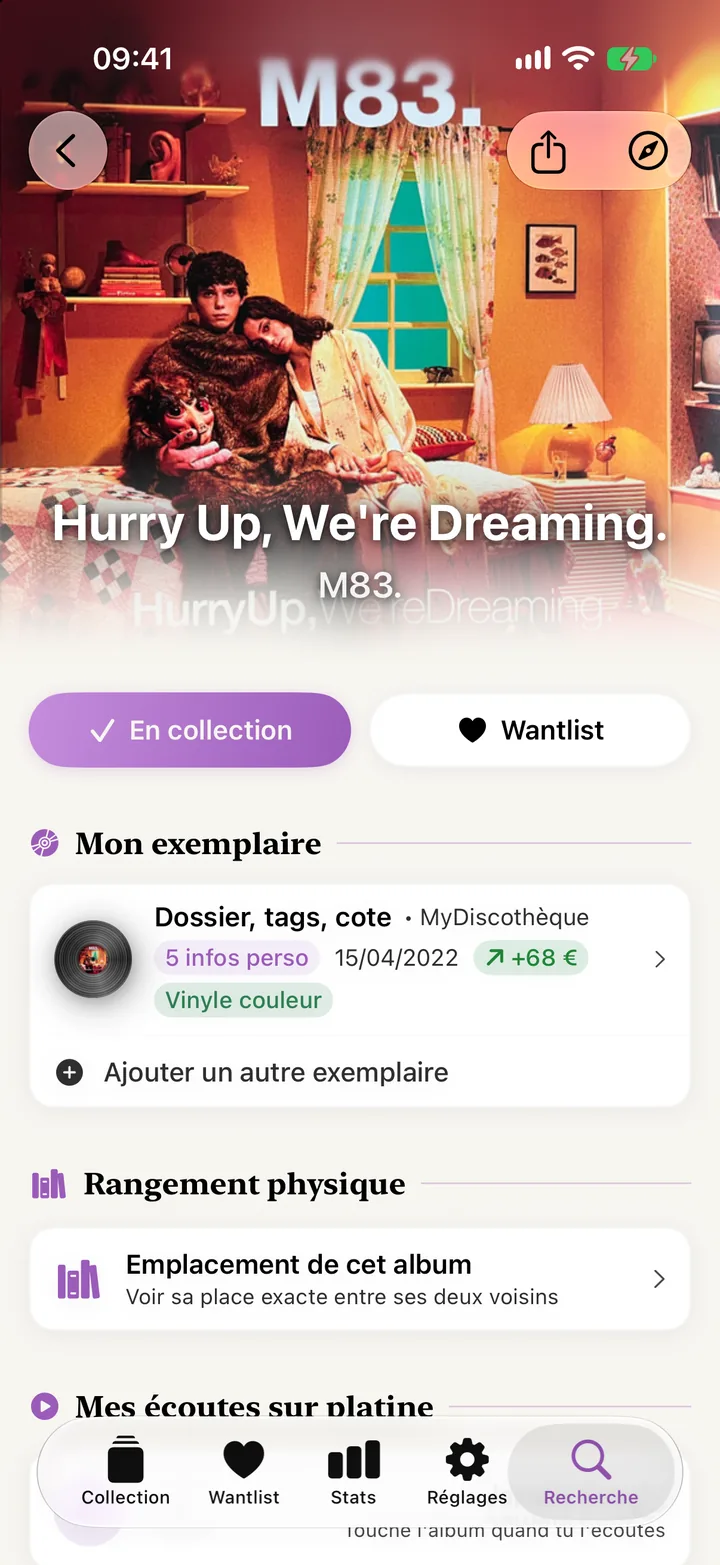
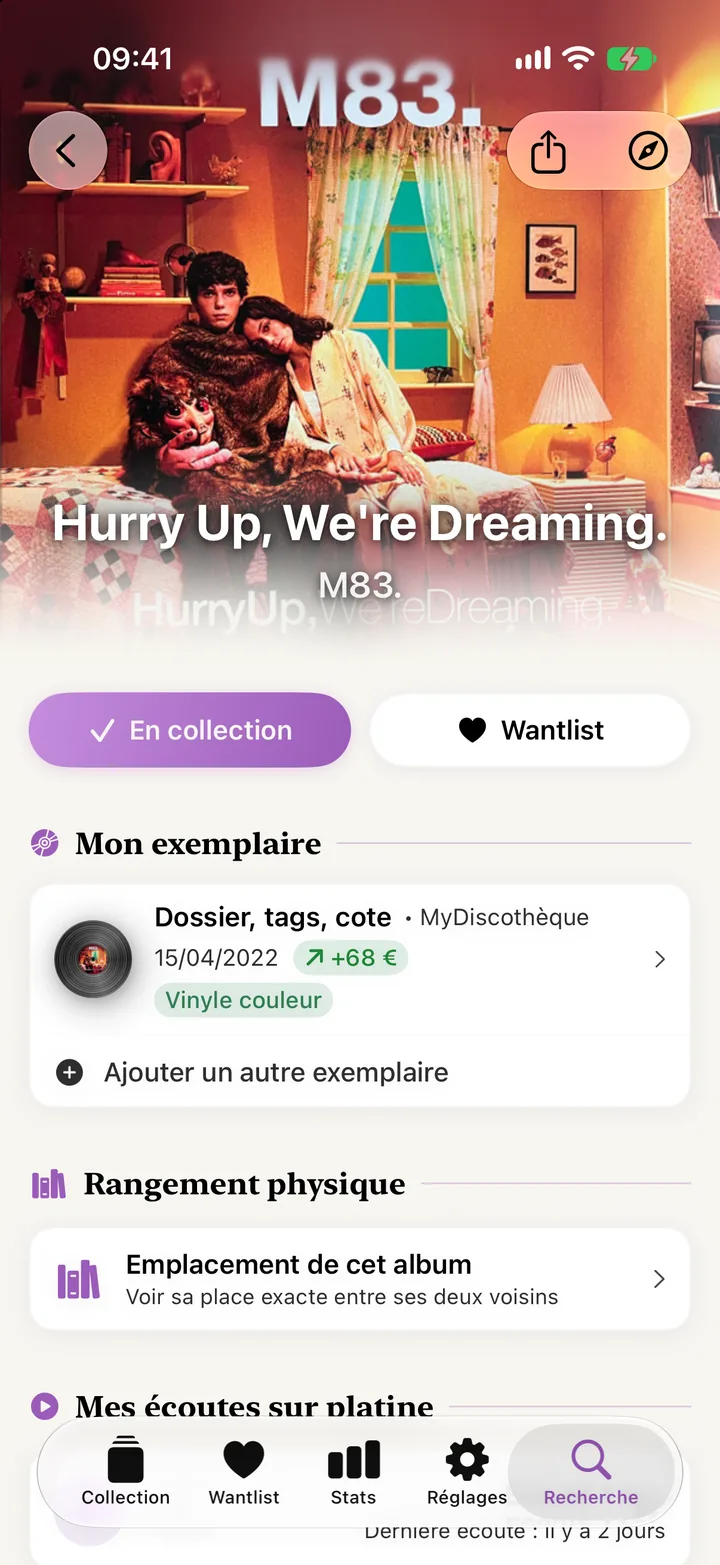
Site : fiche perso de l'exemplaire, section Gratuit en huit cartes, page revue

diff --git a/docs/index.html b/docs/index.html
@@ -166,11 +166,14 @@
     .media-trio figcaption small { display: block; font-family: var(--sans); font-weight: 400; font-size: .92rem; color: var(--ink-2); margin-top: 2px; }
     @media (max-width: 860px) { .media-trio { grid-template-columns: 1fr; max-width: 420px; margin-inline: auto; } }
 
-    /* « Et aussi » : cinq cartes, trois sur la première ligne puis deux plus larges */
-    .more .grid { grid-template-columns: repeat(6, 1fr); }
-    .more .grid .card { grid-column: span 2; }
-    .more .grid .card:nth-child(n+4) { grid-column: span 3; }
-    @media (max-width: 900px) { .more .grid { grid-template-columns: repeat(2, 1fr); } .more .grid .card, .more .grid .card:nth-child(n+4) { grid-column: auto; } .more .grid .card:last-child { grid-column: 1 / -1; } }
+    /* Gratuit : huit cartes, deux lignes de trois puis deux cartes plus larges */
+    #gratuit .grid { grid-template-columns: repeat(6, 1fr); }
+    #gratuit .grid .card { grid-column: span 2; }
+    #gratuit .grid .card:nth-child(n+7) { grid-column: span 3; }
+    @media (max-width: 900px) { #gratuit .grid { grid-template-columns: repeat(2, 1fr); } #gratuit .grid .card, #gratuit .grid .card:nth-child(n+7) { grid-column: auto; } }
+    @media (max-width: 560px) { #gratuit .grid { grid-template-columns: 1fr; } }
+    /* « Et aussi » : quatre cartes, deux par ligne */
+    .more .grid { grid-template-columns: repeat(2, 1fr); }
     @media (max-width: 560px) { .more .grid { grid-template-columns: 1fr; } }
     /* Scan : deux téléphones côte à côte, chacun avec sa légende */
     .scan-duo { display: flex; gap: 28px; justify-content: center; align-items: flex-start; }
@@ -398,7 +401,7 @@
         <li>Le bac : tes disques rangés comme chez le disquaire, tu glisses pour faire basculer celui de devant et découvrir le suivant</li>
         <li>Jusqu'à dix tris, dans les deux sens, et une barre pour sauter à une lettre ou à une année</li>
         <li>Recherche, filtres par dossier, tag ou support, qui se cumulent</li>
-        <li>Plusieurs exemplaires d'un même album, avec tes tags, tes notes personnelles et tes champs personnalisés</li>
+        <li>Plusieurs exemplaires d'un même album, chacun avec son dossier et ses champs Discogs</li>
         <li>Un bouton « Album au hasard » pour ne plus jamais hésiter</li>
       </ul>
     </div>
@@ -418,7 +421,7 @@
 <section class="block on-violet g-rose" id="ecoute">
   <div class="wrap split rev">
     <div class="text reveal">
-      <span class="eyebrow">Fiche &amp; écoute</span>
+      <span class="eyebrow">Fiche de l'album</span>
       <h2>Chaque album a sa fiche.</h2>
       <p>Toutes les informations de l'édition viennent de Discogs : titres, crédits, label, pays, année, format et infos de pressage, avec les photos et les vidéos. En haut de la fiche, un résumé de ton exemplaire.</p>
       <ul class="ticks">
@@ -549,10 +552,9 @@
       <div class="card reveal"><span class="eyebrow">Discogs</span><h3>Collection et wantlist</h3><p>Ajouts illimités. Les ajouts, retraits et notes sont répercutés sur ton compte Discogs.</p></div>
       <div class="card reveal"><span class="eyebrow">Scan</span><h3>Scanner un code-barres</h3><p>Identifie un album par son code-barres et ajoute-le à ta collection ou à ta wantlist.</p></div>
       <div class="card reveal"><span class="eyebrow">Affichage</span><h3>Liste, mosaïque, carrousel, bac</h3><p>Quatre affichages, dix tris, filtres et barre de navigation alphabétique.</p></div>
-      <div class="card reveal"><span class="eyebrow">Classement</span><h3>Notes et dossiers</h3><p>Classe à ta façon, avec une note sur 5 et tes dossiers Discogs. Tes tags restent visibles et filtrables.</p></div>
-      <div class="card reveal"><span class="eyebrow">Valeur</span><h3>Prix d'achat, état et cote</h3><p>Note ce que tu as payé et l'état de chaque disque, sans rien configurer sur Discogs, puis compare avec la cote album par album.</p></div>
-      <div class="card reveal"><span class="eyebrow">Statistiques</span><h3>Ta collection en chiffres</h3><p>Compteurs, derniers ajouts, graphiques par genre, support, label et année, et estimation de la valeur.</p></div>
-      <div class="card reveal"><span class="eyebrow">Platine</span><h3>Écoutes et Live Activity</h3><p>Note chaque écoute, retrouve ton album en cours sur l'écran verrouillé.</p></div>
+      <div class="card reveal"><span class="eyebrow">Classement</span><h3>Notes et dossiers</h3><p>Classe à ta façon, avec une note sur 5 étoiles et tes dossiers Discogs.</p></div>
+      <div class="card reveal"><span class="eyebrow">Valeur</span><h3>Prix d'achat, état et cote</h3><p>Note ce que tu as payé et l'état de chaque disque, et retrouve sa cote Discogs. Le calcul de la plus-value est Premium.</p></div>
+      <div class="card reveal"><span class="eyebrow">Platine</span><h3>Écoutes et Live Activity</h3><p>Enregistre chaque écoute et retrouve ton album en cours sur l'écran verrouillé.</p></div>
       <div class="card reveal"><span class="eyebrow">Apple Music</span><h3>Lecture depuis la fiche</h3><p>Titres en entier avec un abonnement actif, extrait de 30 secondes sinon.</p></div>
       <div class="card reveal"><span class="eyebrow">Apparence</span><h3>Clair, sombre, Signature</h3><p>Thème clair ou sombre, et la palette Signature, aux couleurs de l'app.</p></div>
     </div>
@@ -564,7 +566,7 @@
     <div class="head reveal">
       <span class="pill">✦ Premium</span>
       <h2 style="margin-top:18px">Pour aller beaucoup plus loin.</h2>
-      <p class="lead">Suivi de la valeur, rangement, alertes de prix, hors ligne, iCloud&nbsp;: le Premium transforme Spinfolio en vrai outil de collectionneur.</p>
+      <p class="lead">Suivi de la valeur, informations spécifiques à ton album, rangement, alertes de prix, hors ligne, iCloud&nbsp;: le Premium transforme Spinfolio en vrai outil de collectionneur.</p>
     </div>
 
     <div class="steps">
@@ -572,13 +574,19 @@
         <article class="step" data-shot="cote">
           <span class="eyebrow">Suivi de cote</span>
           <h3>Suis la valeur de tes albums.</h3>
-          <p>Renseigne le prix payé et l'état de chaque exemplaire, directement dans l'app, sans champ Discogs à configurer, puis compare-le à la cote Discogs : tu vois la plus-value de chaque album. Tes valeurs déjà saisies sur Discogs s'importent en un geste.</p>
+          <p>Renseigne le prix payé et l'état de chaque exemplaire, directement dans l'app, puis compare-le à la cote Discogs : tu vois la plus-value de chaque album. Tes valeurs déjà saisies sur Discogs s'importent en un geste.</p>
           <div class="inline-shot"><div class="phone single"><div class="screen"><img src="assets/cote.webp" alt="Exemplaire d'un album : dossier, prix d'achat, état, cote actuelle, plus-value et tags" width="720" height="1565" loading="lazy"></div></div></div>
+        </article>
+        <article class="step" data-shot="histoire">
+          <span class="eyebrow">Histoire de l'exemplaire</span>
+          <h3>Chaque exemplaire a son histoire.</h3>
+          <p>Renseigne ce qui rend ton exemplaire unique : provenance et lieu d'achat, dédicace, numéro de tirage, prêts, dernier nettoyage, notes personnelles et jusqu'à trois photos. Classe aussi tes albums avec des tags personnalisés. Tout reste privé, dans l'app et ton iCloud ; sans abonnement, tout reste visible en lecture seule.</p>
+          <div class="inline-shot"><div class="phone single"><div class="screen"><img src="assets/exemplaire.webp" alt="Mon exemplaire : histoire de l'exemplaire (provenance, lieu, date d'achat, dédicace, numéro de tirage), suivi (prêt, dernier nettoyage, à remplacer) et photos" width="720" height="1565" loading="lazy"></div></div></div>
         </article>
         <article class="step" data-shot="valeur">
           <span class="eyebrow">Valeur de la collection</span>
           <h3>Ce que vaut ta collection, et ce qu'elle t'a coûté.</h3>
-          <p>« Estimation de la collection » s'appuie sur l'historique réel des ventes Discogs. « Investi vs cote actuelle » met face à face le total de ce que tu as payé et la cote de tes albums : ta plus-value latente, en euros et en pourcentage.</p>
+          <p>« Investi vs cote actuelle » met face à face le total de ce que tu as payé et la cote de tes albums : ta plus-value latente, en euros et en pourcentage. Juste au-dessus, l'estimation de la collection, gratuite, s'appuie sur l'historique réel des ventes Discogs.</p>
           <div class="inline-shot"><div class="phone single"><div class="screen"><img src="assets/cote-collection.webp" alt="Statistiques : estimation de la collection (minimum, médiane, maximum) et « Investi vs cote actuelle » avec le total investi, la cote actuelle et la plus-value latente" width="720" height="1565" loading="lazy"></div></div></div>
         </article>
         <article class="step" data-shot="rangement">
@@ -586,12 +594,6 @@
           <h3>Retrouve la place exacte de chaque album.</h3>
           <p>Le guide te donne la position de l'album dans ton meuble, entre ses deux voisins, selon ta méthode de classement. Il s'ouvre aussi juste après l'ajout d'un album.</p>
           <div class="inline-shot"><div class="phone single"><div class="screen"><img src="assets/rangement.webp" alt="Guide de rangement : position dans le meuble entre les deux albums voisins" width="720" height="1565" loading="lazy"></div></div></div>
-        </article>
-        <article class="step" data-shot="scan">
-          <span class="eyebrow">Scan par lot</span>
-          <h3>Scanne toute ta pile, ajoute-la d'un coup.</h3>
-          <p>Enchaîne les codes-barres chez le disquaire ou en brocante, relis la revue, puis envoie le lot en collection ou en wantlist.</p>
-          <div class="inline-shot"><div class="phone single"><div class="screen"><img src="assets/scan.webp" alt="Revue du scan par lot : quatre albums scannés, choix du dossier et boutons Collection et Wantlist" width="720" height="1565" loading="lazy"></div></div></div>
         </article>
         <article class="step" data-shot="palmares">
           <span class="eyebrow">Palmarès d'écoute</span>
@@ -610,9 +612,9 @@
         <div class="phone" id="premium-phone">
           <div class="screen">
             <img class="on" data-id="cote" src="assets/cote.webp" alt="" width="720" height="1565" loading="lazy">
+            <img data-id="histoire" src="assets/exemplaire.webp" alt="" width="720" height="1565" loading="lazy">
             <img data-id="valeur" src="assets/cote-collection.webp" alt="" width="720" height="1565" loading="lazy">
             <img data-id="rangement" src="assets/rangement.webp" alt="" width="720" height="1565" loading="lazy">
-            <img data-id="scan" src="assets/scan.webp" alt="" width="720" height="1565" loading="lazy">
             <img data-id="palmares" src="assets/palmares.webp" alt="" width="720" height="1565" loading="lazy">
             <img data-id="wantlist" src="assets/alerte.webp" alt="" width="720" height="1565" loading="lazy">
           </div>
@@ -624,11 +626,9 @@
       <h3 class="reveal">Et aussi, pour les collectionneurs exigeants.</h3>
       <div class="grid">
         <div class="card reveal"><span class="eyebrow">Mode hors ligne</span><h3>Toute ta collection, sans réseau</h3><p>Emporte ta collection et ses pochettes haute résolution pour fouiner en brocante. La synchro automatique ne se lance jamais en 4G/5G.</p></div>
-        <div class="card reveal"><span class="eyebrow">Tags et notes personnelles</span><h3>Gère tes tags et tes notes sans limite</h3><p>Création, affectation, renommage et gestion en masse de tags. Ajoute une note personnelle à chaque exemplaire. Sans abonnement, tes tags et notes restent visibles en lecture seule.</p></div>
-        <div class="card reveal"><span class="eyebrow">Synchro iCloud</span><h3>Sur tous tes appareils</h3><p>Tes tags, notes personnelles, écoutes, alertes, prix d'achat, états de disque et préférences suivent ton compte. Couper la synchro n'efface rien.</p></div>
+        <div class="card reveal"><span class="eyebrow">Synchro iCloud</span><h3>Sur tous tes appareils</h3><p>Tes tags, notes, histoires et photos d'exemplaires, écoutes, alertes, prix d'achat, états de disque et préférences suivent ton compte. Couper la synchro n'efface rien.</p></div>
         <div class="card reveal"><span class="eyebrow">Export CSV</span><h3>Ta discothèque dans un tableur</h3><p>Excel, Numbers ou Sheets : tous tes albums avec métadonnées, tags et notes personnelles.</p></div>
         <div class="card reveal"><span class="eyebrow">Déclaration de collection</span><h3>Un PDF pour ton assureur</h3><p>La liste de tes albums avec pochette, état et prix d'achat, à présenter comme justificatif.</p></div>
-        <div class="card reveal"><span class="eyebrow">Thèmes de couleur</span><h3>Neuf palettes exclusives</h3><p>Donne à ton app l'ambiance qui te ressemble, du bleu électrique au marron espresso.</p></div>
       </div>
     </div>
   </div>
@@ -681,16 +681,16 @@
           <tr><th scope="row">Thème clair ou sombre, palette Signature</th><td class="yes">✓</td><td class="yes">✓</td></tr>
           <tr class="sep"><td colspan="3">Réservé au Premium</td></tr>
           <tr><th scope="row">Suivi de cote<small>Plus-value par exemplaire et pour toute la collection</small></th><td class="no">—</td><td class="yes gold">✓</td></tr>
-          <tr><th scope="row">Tags et notes personnelles<small>Création, affectation, renommage, gestion en masse de tags, notes par exemplaire.</small></th><td class="no">—</td><td class="yes gold">✓</td></tr>
+          <tr><th scope="row">Histoire de l'exemplaire, tags et notes<small>Provenance, dédicace, numéro de tirage, prêts, nettoyage, photos, notes personnelles et tags</small></th><td class="no">—</td><td class="yes gold">✓</td></tr>
           <tr><th scope="row">Où ranger l'album<small>Position dans le meuble, entre ses deux voisins</small></th><td class="no">—</td><td class="yes gold">✓</td></tr>
+          <tr><th scope="row">Scan par lot</th><td class="no">—</td><td class="yes gold">✓</td></tr>
           <tr><th scope="row">Palmarès et podiums d'écoute sur platine</th><td class="no">—</td><td class="yes gold">✓</td></tr>
           <tr><th scope="row">Alertes de prix sur la wantlist</th><td class="no">—</td><td class="yes gold">✓</td></tr>
           <tr><th scope="row">Mode hors ligne</th><td class="no">—</td><td class="yes gold">✓</td></tr>
           <tr><th scope="row">Synchronisation iCloud</th><td class="no">—</td><td class="yes gold">✓</td></tr>
-          <tr><th scope="row">Scan par lot</th><td class="no">—</td><td class="yes gold">✓</td></tr>
-          <tr><th scope="row">Neuf palettes de couleurs</th><td class="no">—</td><td class="yes gold">✓</td></tr>
           <tr><th scope="row">Export CSV complet</th><td class="no">—</td><td class="yes gold">✓</td></tr>
           <tr><th scope="row">Déclaration de collection (PDF)</th><td class="no">—</td><td class="yes gold">✓</td></tr>
+          <tr><th scope="row">Neuf palettes de couleurs</th><td class="no">—</td><td class="yes gold">✓</td></tr>
         </tbody>
       </table>
     </div>
@@ -715,7 +715,7 @@
       <details><summary>Se connecter à Discogs</summary><div class="body">
         <p>Ta collection vit sur Discogs : Spinfolio en est une belle vitrine.</p>
         <ol><li>Autorise l'app sur le site Discogs, puis reviens dans Spinfolio.</li><li>Ta collection et ta wantlist se chargent.</li></ol>
-        <p class="tip"><strong>Astuce.</strong> Les ajouts, les retraits et les notes sont répercutés sur ton compte Discogs. Les tags et les notes personnelles, eux, restent propres à Spinfolio.</p>
+        <p class="tip"><strong>Astuce.</strong> Les ajouts, les retraits et les notes sont répercutés sur ton compte Discogs. Les tags, eux, restent propres à Spinfolio.</p>
       </div></details>
       <details><summary>Ajouter un album<span class="badge acc">Compte Discogs</span></summary><div class="body">
         <p>Cherche par nom ou scanne le code-barres.</p>
@@ -735,7 +735,7 @@
     <div class="manual-group reveal"><h3>Collection et Wantlist</h3>
       <details><summary>Quatre affichages</summary><div class="body">
         <p>Liste, mosaïque, carrousel ou bac : choisis ce qui te parle.</p>
-        <ol><li>Touche « ··· » en haut à droite, puis « Affichage » : ton choix est retenu, séparément pour la Collection et la Wantlist.</li><li>Dans le bac, glisse vers le bas pour faire basculer le disque de devant et découvrir le suivant, vers le haut pour revenir en arrière.</li></ol>
+        <ol><li>Touche « ··· » en haut à droite, puis « Affichage » : ton choix est retenu, séparément pour la Collection et la Wantlist.</li><li>Dans le bac, glisse vers le bas pour faire basculer l'album de devant et découvrir le suivant, vers le haut pour revenir en arrière.</li></ol>
         <p class="tip"><strong>Astuce.</strong> Le bouton « Album au hasard », en haut de la Collection, t'en propose un.</p>
       </div></details>
       <details><summary>Trier et naviguer</summary><div class="body">
@@ -744,8 +744,8 @@
         <p class="tip"><strong>Astuce.</strong> Le tri « Meuble » suit ta règle de rangement (Réglages &gt; Rangement).</p>
       </div></details>
       <details><summary>Chercher et filtrer</summary><div class="body">
-        <p>Par texte, dossier, tag ou support. Les filtres se cumulent.</p>
-        <ol><li>Tape dans la barre de recherche, ou touche « ··· » puis « Filtres » pour le tag et le support.</li><li>Le menu « Dossier », dans « ··· », change de dossier.</li></ol>
+        <p>Cherche dans l'onglet Recherche, filtre ta collection par dossier, tag, support ou exemplaire.</p>
+        <ol><li>Onglet Recherche : tes albums de la collection, puis de la wantlist, apparaissent en tête des résultats.</li><li>Dans la Collection, touche le nom du dossier sous le titre pour en changer, ou « ··· » puis « Filtres » pour le tag, le support et « Mon exemplaire ».</li></ol>
         <p class="tip"><strong>Astuce.</strong> Avec plusieurs tags, seuls les albums qui les portent tous restent affichés.</p>
       </div></details>
       <details><summary>Agir sur un album</summary><div class="body">
@@ -755,27 +755,33 @@
       </div></details>
     </div>
     <div class="manual-group reveal"><h3>Fiche d'un album</h3>
-      <details><summary>Lire une fiche</summary><div class="body">
-        <p>Titres, crédits, photos, vidéos et infos de pressage, au même endroit.</p>
-        <ol><li>Touche un album pour ouvrir sa fiche.</li><li>Fais défiler : titres, « Photos et vidéos », « Autres informations ».</li></ol>
-      </div></details>
-      <details><summary>Plusieurs exemplaires<span class="badge acc">Compte Discogs</span></summary><div class="body">
-        <p>Un même album peut exister en plusieurs exemplaires, chacun avec son dossier.</p>
-        <ol><li>Maintiens « En collection » pour ajouter un exemplaire.</li><li>Touche « Modifier » sur un exemplaire : dossier, tags, champs Discogs.</li></ol>
-      </div></details>
-      <details><summary>Tags et notes personnelles<span class="badge">Premium</span></summary><div class="body">
-        <p>Classe tes albums avec tes propres tags, et garde une note personnelle sur chaque exemplaire.</p>
-        <ol><li>Dans « Modifier », section « Tags de l'exemplaire » : crée ou choisis des tags, puis écris une note dans « Notes personnelles » (100 caractères).</li><li>Gère-les dans Réglages (« Gestion des tags »), ou avec « Sélectionner » dans la Collection.</li></ol>
-        <p class="tip"><strong>Astuce.</strong> Sans abonnement, tes tags (filtrables) et tes notes restent visibles, mais ne se modifient plus. Ils sont synchronisés par iCloud, pas envoyés à Discogs.</p>
+      <details><summary>La fiche Discogs de l'album</summary><div class="body">
+        <p>Titres, crédits, photos Discogs, vidéos et infos de pressage : ce que Discogs sait de l'album, le même pour tous.</p>
+        <ol><li>Touche un album pour ouvrir sa fiche.</li><li>Sous tes propres sections, fais défiler : titres, « Photos et vidéos », « Autres informations ».</li></ol>
       </div></details>
       <details><summary>Note<span class="badge acc">Compte Discogs</span></summary><div class="body">
         <p>Note tes albums sur 5 étoiles.</p>
         <ol><li>Touche les étoiles de « Ma note de la release » pour noter.</li></ol>
+        <p class="tip"><strong>Astuce.</strong> La note vaut pour l'album, pas pour un exemplaire : Discogs la partage entre tous tes exemplaires.</p>
       </div></details>
-      <details><summary>Prix d'achat et état du disque<span class="badge acc">Compte Discogs</span></summary><div class="body">
-        <p>Note ce que tu as payé et l'état de chaque disque, sans rien configurer sur Discogs.</p>
-        <ol><li>Touche « Modifier » sur un exemplaire, puis renseigne le prix et l'état dans « Plus-value de l'exemplaire ».</li><li>Facultatif : dans Réglages &gt; Suivi de plus-value, associe des champs Discogs pour importer tes valeurs existantes ou les y envoyer.</li></ol>
+      <details><summary>Mon exemplaire<span class="badge acc">Compte Discogs</span></summary><div class="body">
+        <p>En haut de la fiche, « Mon exemplaire » regroupe ce qui est propre à ton album : dossier, prix, tags, notes, histoire et photos.</p>
+        <ol><li>Touche la ligne de l'exemplaire pour ouvrir « Mon exemplaire » ; balaie-la ou maintiens-la pour voir où ranger, modifier ou supprimer ton exemplaire.</li><li>Maintiens « En collection » pour ajouter un autre exemplaire : chacun a sa propre fiche et son dossier.</li></ol>
+      </div></details>
+      <details><summary>Prix d'achat et état de l'album<span class="badge acc">Compte Discogs</span></summary><div class="body">
+        <p>Note ce que tu as payé et l'état de chaque album.</p>
+        <ol><li>Dans « Mon exemplaire », renseigne le prix et l'état dans « Plus-value de l'exemplaire ».</li><li>Facultatif : dans Réglages &gt; Suivi de plus-value, associe des champs Discogs pour importer tes valeurs existantes ou les y envoyer.</li></ol>
         <p class="tip"><strong>Astuce.</strong> Prix et état restent dans l'app (et sur tes appareils avec iCloud, en Premium). La plus-value (cote moins prix payé) est une fonction Premium, dans Stats.</p>
+      </div></details>
+      <details><summary>Tags et notes personnelles<span class="badge">Premium</span></summary><div class="body">
+        <p>Classe tes albums avec tes propres tags, et garde une note personnelle sur chaque exemplaire.</p>
+        <ol><li>Dans « Mon exemplaire » : crée ou choisis des tags (« Tags de l'exemplaire »), puis écris une note dans « Notes personnelles ».</li><li>Gère les tags dans Réglages (« Gestion des tags »), ou avec « Sélectionner » dans la Collection.</li></ol>
+        <p class="tip"><strong>Astuce.</strong> Sans abonnement, tes tags (filtrables) et tes notes restent visibles, mais ne se modifient plus. Ils sont synchronisés par iCloud, pas envoyés à Discogs.</p>
+      </div></details>
+      <details><summary>Histoire, prêts et photos d'un exemplaire<span class="badge">Premium</span></summary><div class="body">
+        <p>Note d'où vient chaque exemplaire, s'il est dédicacé ou numéroté, à qui tu l'as prêté, s'il est à remplacer, et garde jusqu'à 3 photos.</p>
+        <ol><li>Dans « Mon exemplaire » : remplis « Histoire de l'exemplaire » (provenance, date d'achat, dédicace, numéro), puis « Suivi » (prêt, dernier nettoyage des vinyles et écoutes depuis, à remplacer).</li><li>Dans « Photos de l'exemplaire », prends une photo ou choisis-la dans Photos (dédicace, sticker, défaut) ; touche-la pour l'agrandir, maintiens-la pour la supprimer.</li></ol>
+        <p class="tip"><strong>Astuce.</strong> Les albums prêtés, dédicacés ou à remplacer se filtrent dans la Collection (« Mon exemplaire »). Sans abonnement, tout reste visible mais ne se modifie plus. Synchronisé par iCloud, jamais envoyé à Discogs.</p>
       </div></details>
     </div>
     <div class="manual-group reveal"><h3>Statistiques</h3>
@@ -851,7 +857,7 @@
       </div></details>
       <details><summary>Choisir le bon seuil<span class="badge">Premium</span></summary><div class="body">
         <p>La feuille montre la cote récente par état, pour viser juste.</p>
-        <ol><li>Touche un état dans « Cote moyenne récente par état » : sa cote devient ton prix cible.</li><li>Ajuste avec les raccourcis \((-0.1).formatted(.percent)), \((-0.2).formatted(.percent)) ou \((-0.3).formatted(.percent)).</li></ol>
+        <ol><li>Touche un état dans « Cote moyenne récente par état » : sa cote devient ton prix cible.</li><li>Ajuste avec les raccourcis −10 %, −20 % ou −30 %.</li></ol>
       </div></details>
       <details><summary>Quand l'alerte se déclenche<span class="badge">Premium</span></summary><div class="body">
         <p>Tu es prévenu dès qu'une annonce est à ton prix ou moins.</p>
@@ -866,7 +872,7 @@
         <p class="tip"><strong>Astuce.</strong> La synchro auto ne se lance jamais en 4G/5G, et au plus une fois toutes les 6 heures.</p>
       </div></details>
       <details><summary>Synchronisation iCloud<span class="badge">Premium</span></summary><div class="body">
-        <p>Tes tags, notes personnelles, écoutes, alertes, prix et états de disque et préférences suivent ton compte sur tous tes appareils.</p>
+        <p>Tes tags, notes personnelles, histoires et photos d'exemplaires, écoutes, alertes, prix et états des albums et préférences suivent ton compte sur tous tes appareils.</p>
         <ol><li>Dans Réglages &gt; Synchronisation, ouvre « Synchronisation iCloud » et active « Synchroniser avec iCloud ».</li></ol>
         <p class="tip"><strong>Astuce.</strong> Couper la synchro n'efface rien : à la réactivation, tout est fusionné. Elle est coupée pendant la démo.</p>
       </div></details>
